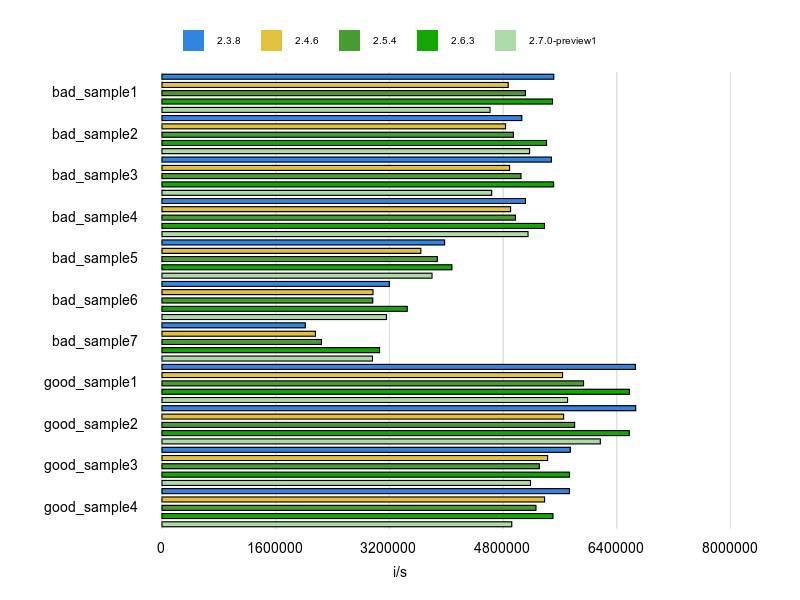
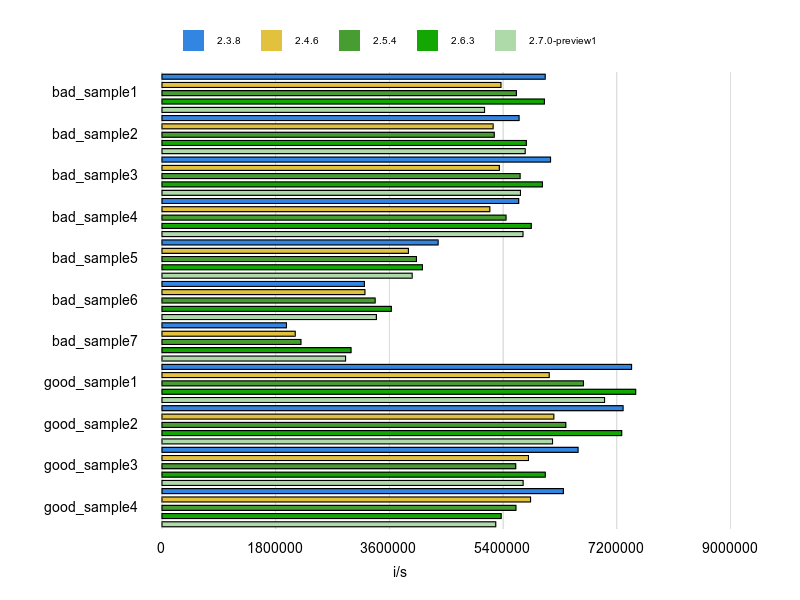
improve Count

diff --git a/benchmarks/count.rb b/benchmarks/count.rb
@@ -20,50 +20,51 @@ Benchmark.driver(output: output) do |x|
       end
     end
 
-    ARRAY = [Elm.new(5), Elm.new(4), Elm.new(3), Elm.new(2), Elm.new(5)]
+    NUM_ARRAY = [1, 2, 3]
+    OBJ_ARRAY = [Elm.new(5), Elm.new(4), Elm.new(3), Elm.new(2), Elm.new(5)]
 
     def bad_sample1
-      [1, 2, 3].select { |e| e > 2 }.size
+      NUM_ARRAY.select { |e| e > 2 }.size
     end
 
     def bad_sample2
-      [1, 2, 3].reject { |e| e > 2 }.size
+      NUM_ARRAY.reject { |e| e > 2 }.size
     end
 
     def bad_sample3
-      [1, 2, 3].select { |e| e > 2 }.length
+      NUM_ARRAY.select { |e| e > 2 }.length
     end
 
     def bad_sample4
-      [1, 2, 3].reject { |e| e > 2 }.length
+      NUM_ARRAY.reject { |e| e > 2 }.length
     end
 
     def bad_sample5
-      [1, 2, 3].select { |e| e > 2 }.count { |e| e.odd? }
+      NUM_ARRAY.select { |e| e > 2 }.count { |e| e.odd? }
     end
 
     def bad_sample6
-      [1, 2, 3].reject { |e| e > 2 }.count { |e| e.even? }
+      NUM_ARRAY.reject { |e| e > 2 }.count { |e| e.even? }
     end
 
     def bad_sample7
-      ARRAY.select(&:value).count
+      OBJ_ARRAY.select(&:value).count
     end
 
     def good_sample1
-      [1, 2, 3].count { |e| e > 2 }
+      NUM_ARRAY.count { |e| e > 2 }
     end
 
     def good_sample2
-      [1, 2, 3].count { |e| e < 2 }
+      NUM_ARRAY.count { |e| e < 2 }
     end
 
     def good_sample3
-      [1, 2, 3].count { |e| e > 2 && e.odd? }
+      NUM_ARRAY.count { |e| e > 2 && e.odd? }
     end
 
     def good_sample4
-      [1, 2, 3].count { |e| e < 2 && e.even? }
+      NUM_ARRAY.count { |e| e < 2 && e.even? }
     end
   RUBY
 
